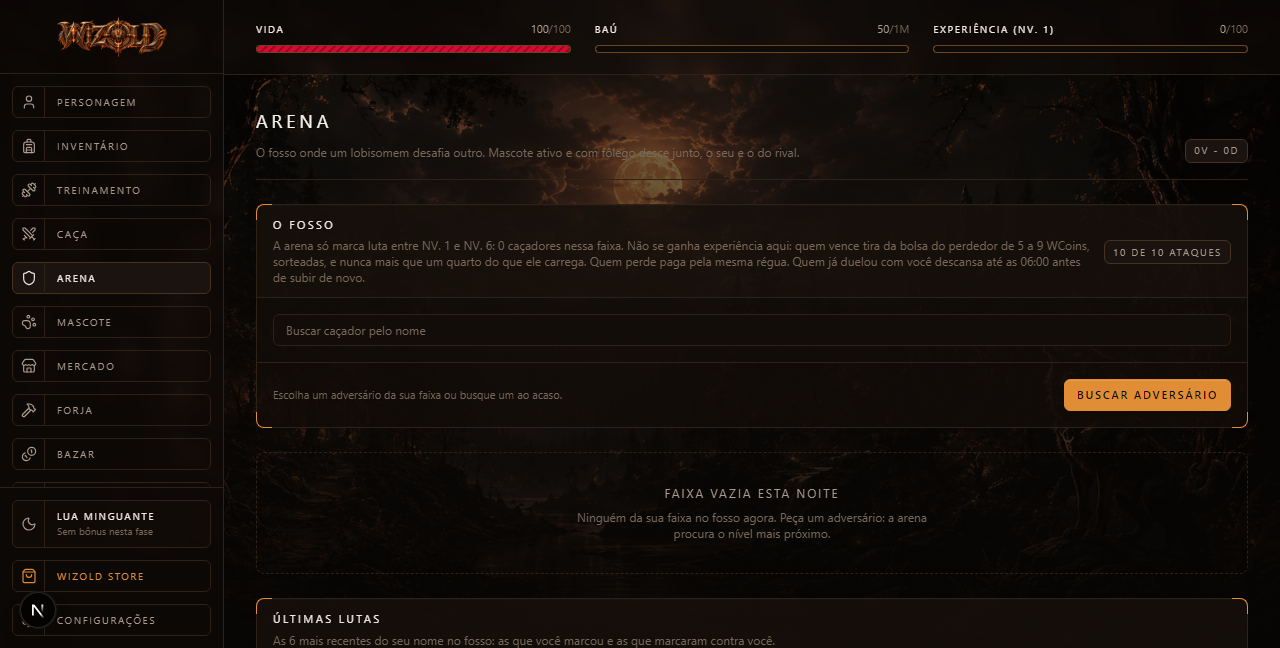
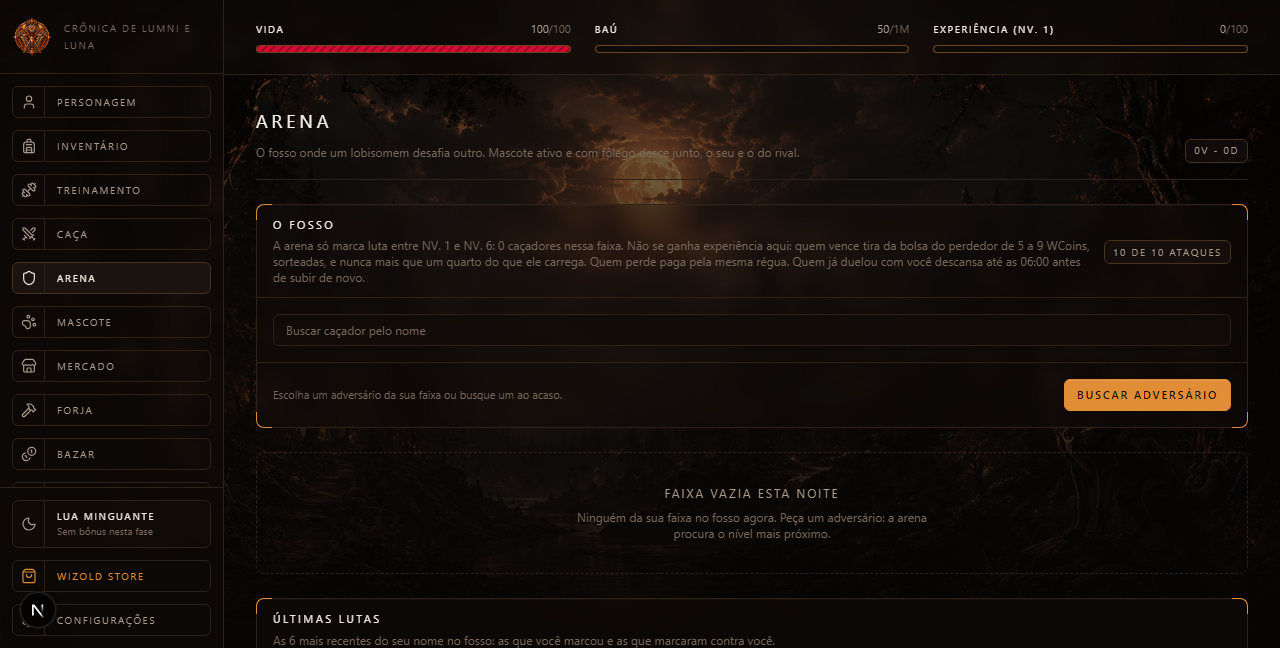
Atualiza prints do tour da landing com o design final (v1.43.16).

Changed region(s): [[0.0, 0.0309, 0.1562, 0.0926], [0.4688, 0.3086, 0.5312, 0.3704]]

diff --git a/src/models/data/preview.ts b/src/models/data/preview.ts
@@ -14,7 +14,7 @@ export const PREVIEW_SHOTS: readonly PreviewShot[] = [
     text:
       "Atributos, forma, lobo e combate na mesma tela, com a origem de cada ponto separada: " +
       "treino, equipamento, mascote, lua e fúria.",
-    image: "/assets/landing/character.webp?v=7",
+    image: "/assets/landing/character.webp?v=8",
   },
   {
     key: "hunt",
@@ -23,7 +23,7 @@ export const PREVIEW_SHOTS: readonly PreviewShot[] = [
     text:
       "A trilha enche, a presa responde e a luta desce linha a linha. Só a fera caça: " +
       "em pele humana o campo recusa.",
-    image: "/assets/landing/hunt.webp?v=7",
+    image: "/assets/landing/hunt.webp?v=8",
   },
   {
     key: "training",
@@ -32,7 +32,7 @@ export const PREVIEW_SHOTS: readonly PreviewShot[] = [
     text:
       "Cada atributo tem o seu pátio, a sessão cobra WCoins e o ganho acompanha o nível " +
       "sem presente escondido na faixa.",
-    image: "/assets/landing/training.webp?v=7",
+    image: "/assets/landing/training.webp?v=8",
   },
   {
     key: "forge",
@@ -41,7 +41,7 @@ export const PREVIEW_SHOTS: readonly PreviewShot[] = [
     text:
       "A mina abre os veios por faixa, a bigorna bate na peça que você já usa e cada +1 " +
       "permanece na peça, não no slot.",
-    image: "/assets/landing/forge.webp?v=7",
+    image: "/assets/landing/forge.webp?v=8",
   },
   {
     key: "arena",
@@ -50,7 +50,7 @@ export const PREVIEW_SHOTS: readonly PreviewShot[] = [
     text:
       "Adversário do ranking, prêmio em WCoins na bolsa dele e replay da luta na mesma " +
       "cadência da caça.",
-    image: "/assets/landing/arena.webp?v=7",
+    image: "/assets/landing/arena.webp?v=8",
   },
   {
     key: "tavern",
@@ -59,6 +59,6 @@ export const PREVIEW_SHOTS: readonly PreviewShot[] = [
     text:
       "Salas abertas ou trancadas, mensagens ao vivo, convite de matilha e aviso quando " +
       "a cadeira acende.",
-    image: "/assets/landing/tavern.webp?v=7",
+    image: "/assets/landing/tavern.webp?v=8",
   },
 ];

diff --git a/src/shared/constants/version.ts b/src/shared/constants/version.ts
@@ -1,3 +1,3 @@
-export const GAME_VERSION = "1.43.15";
+export const GAME_VERSION = "1.43.16";
 
 export const VERSION_POLL_MS = 60000;
